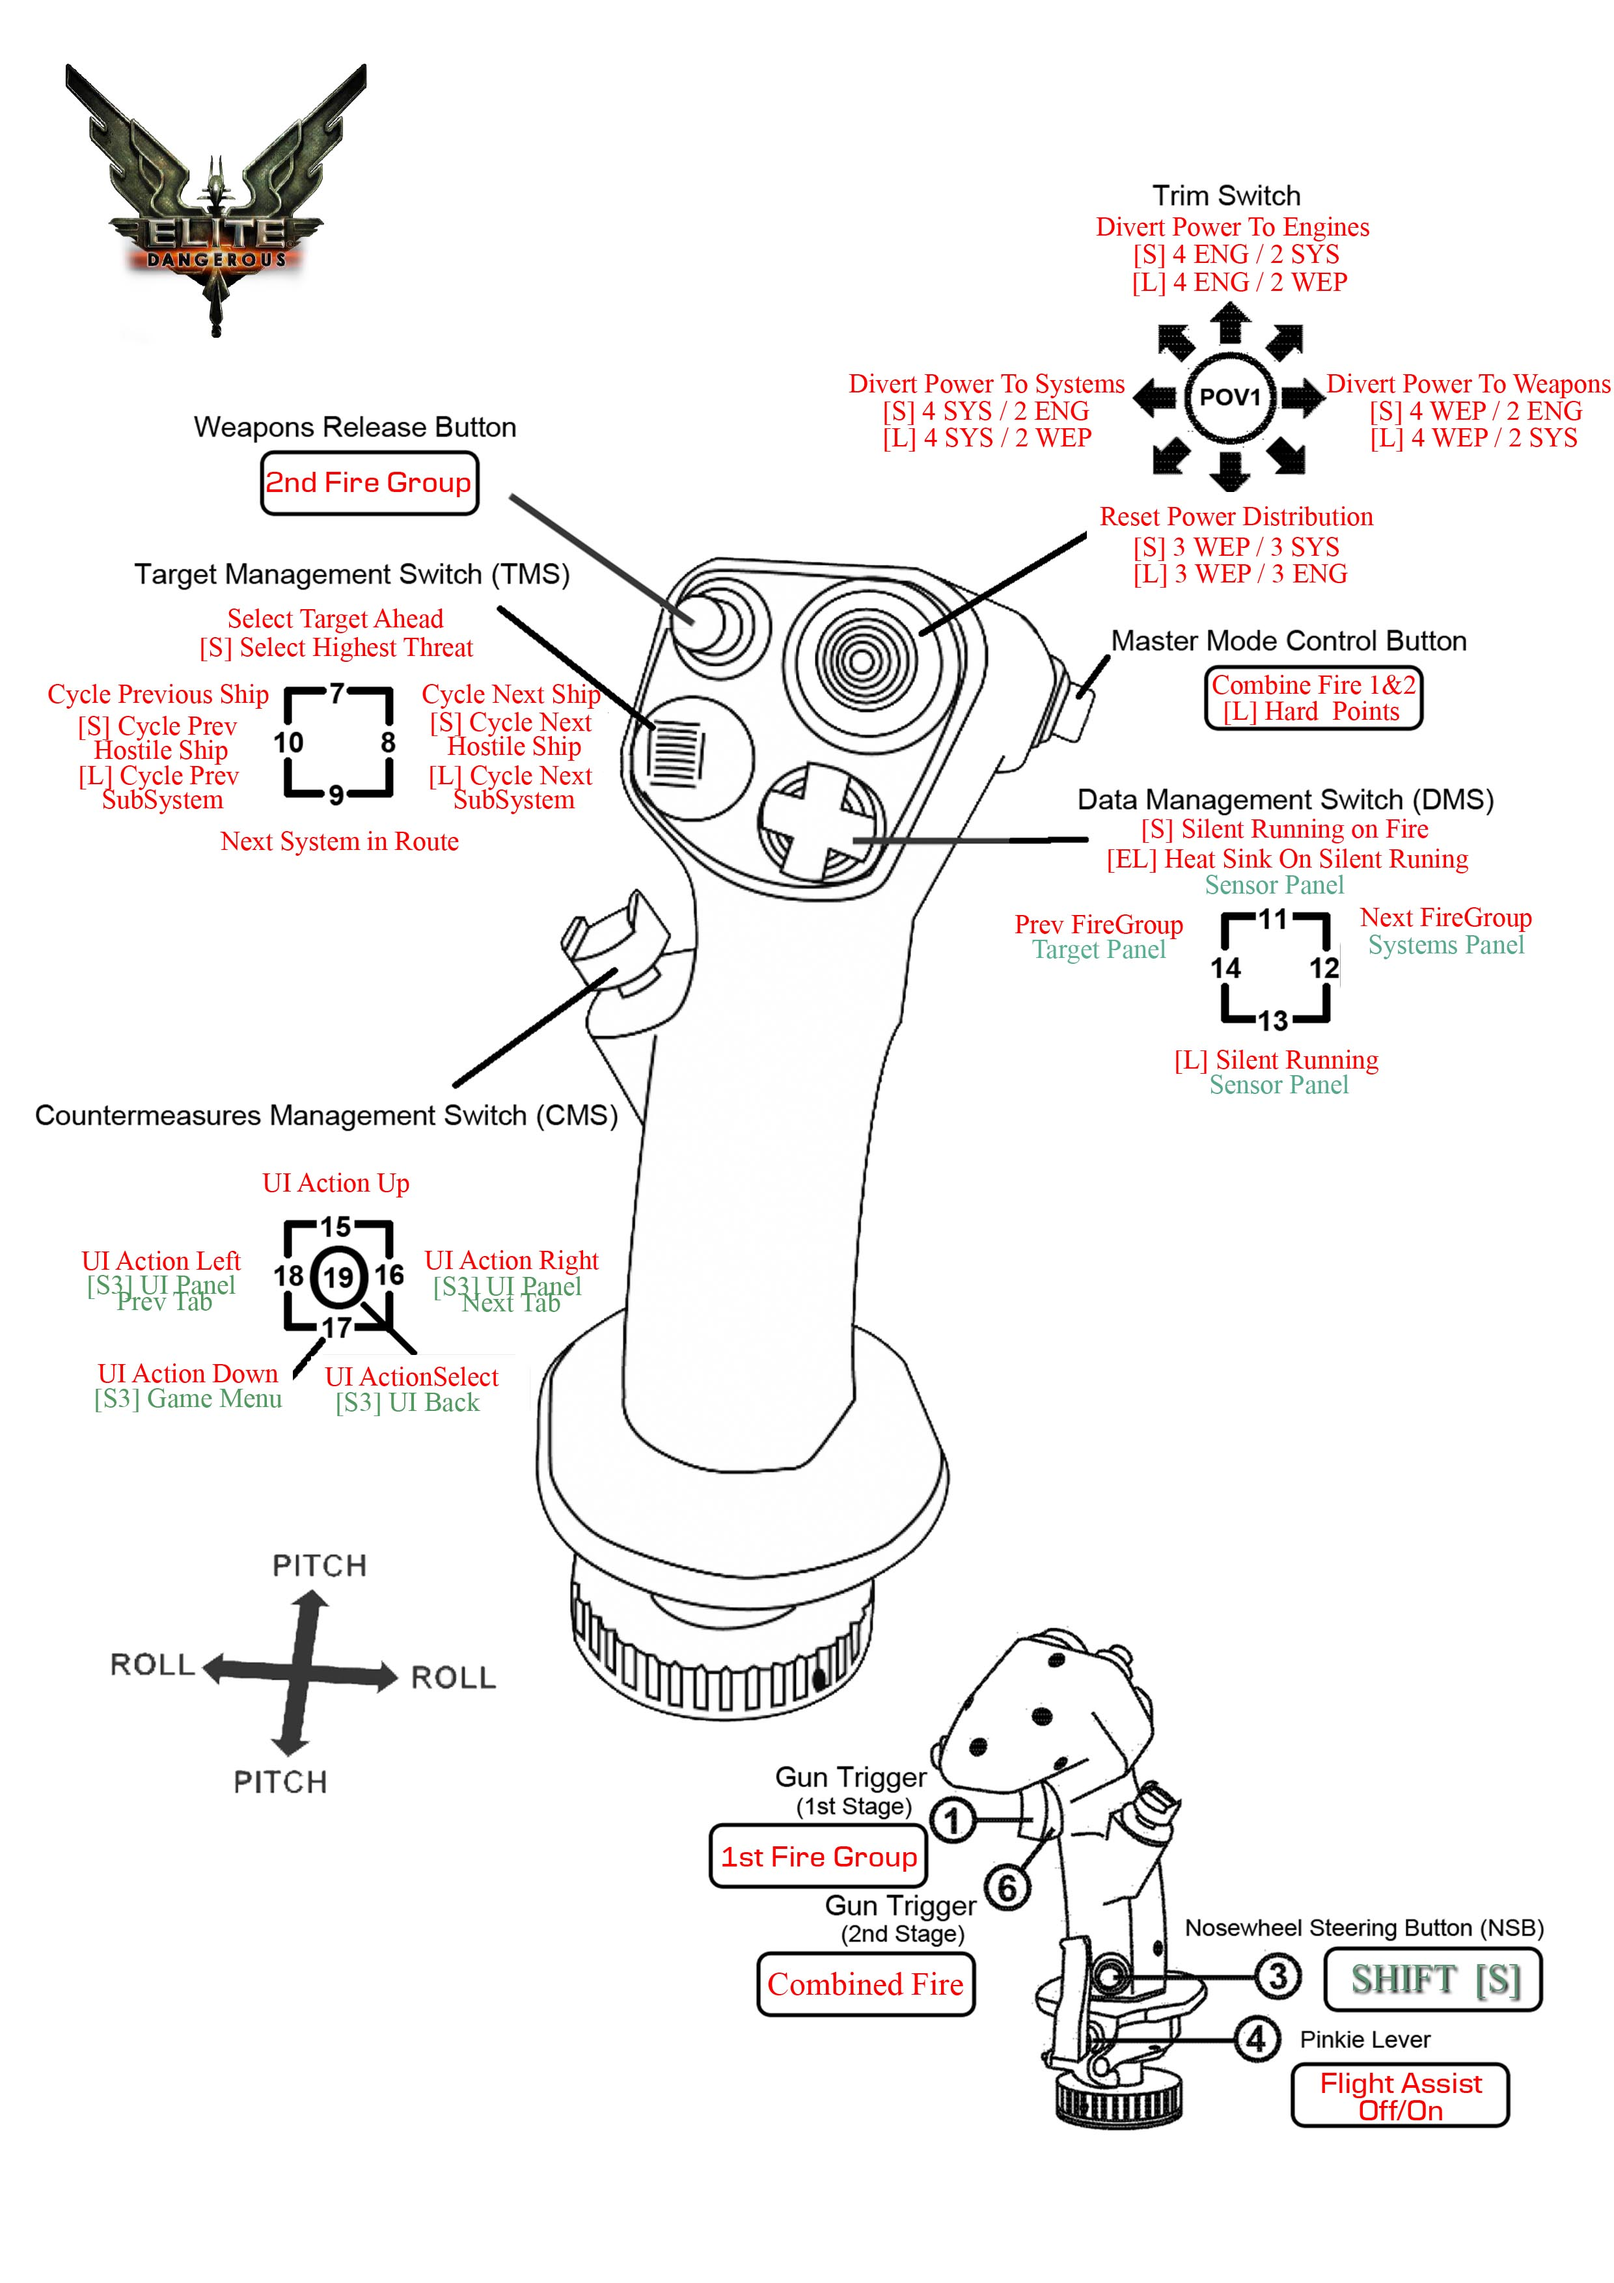
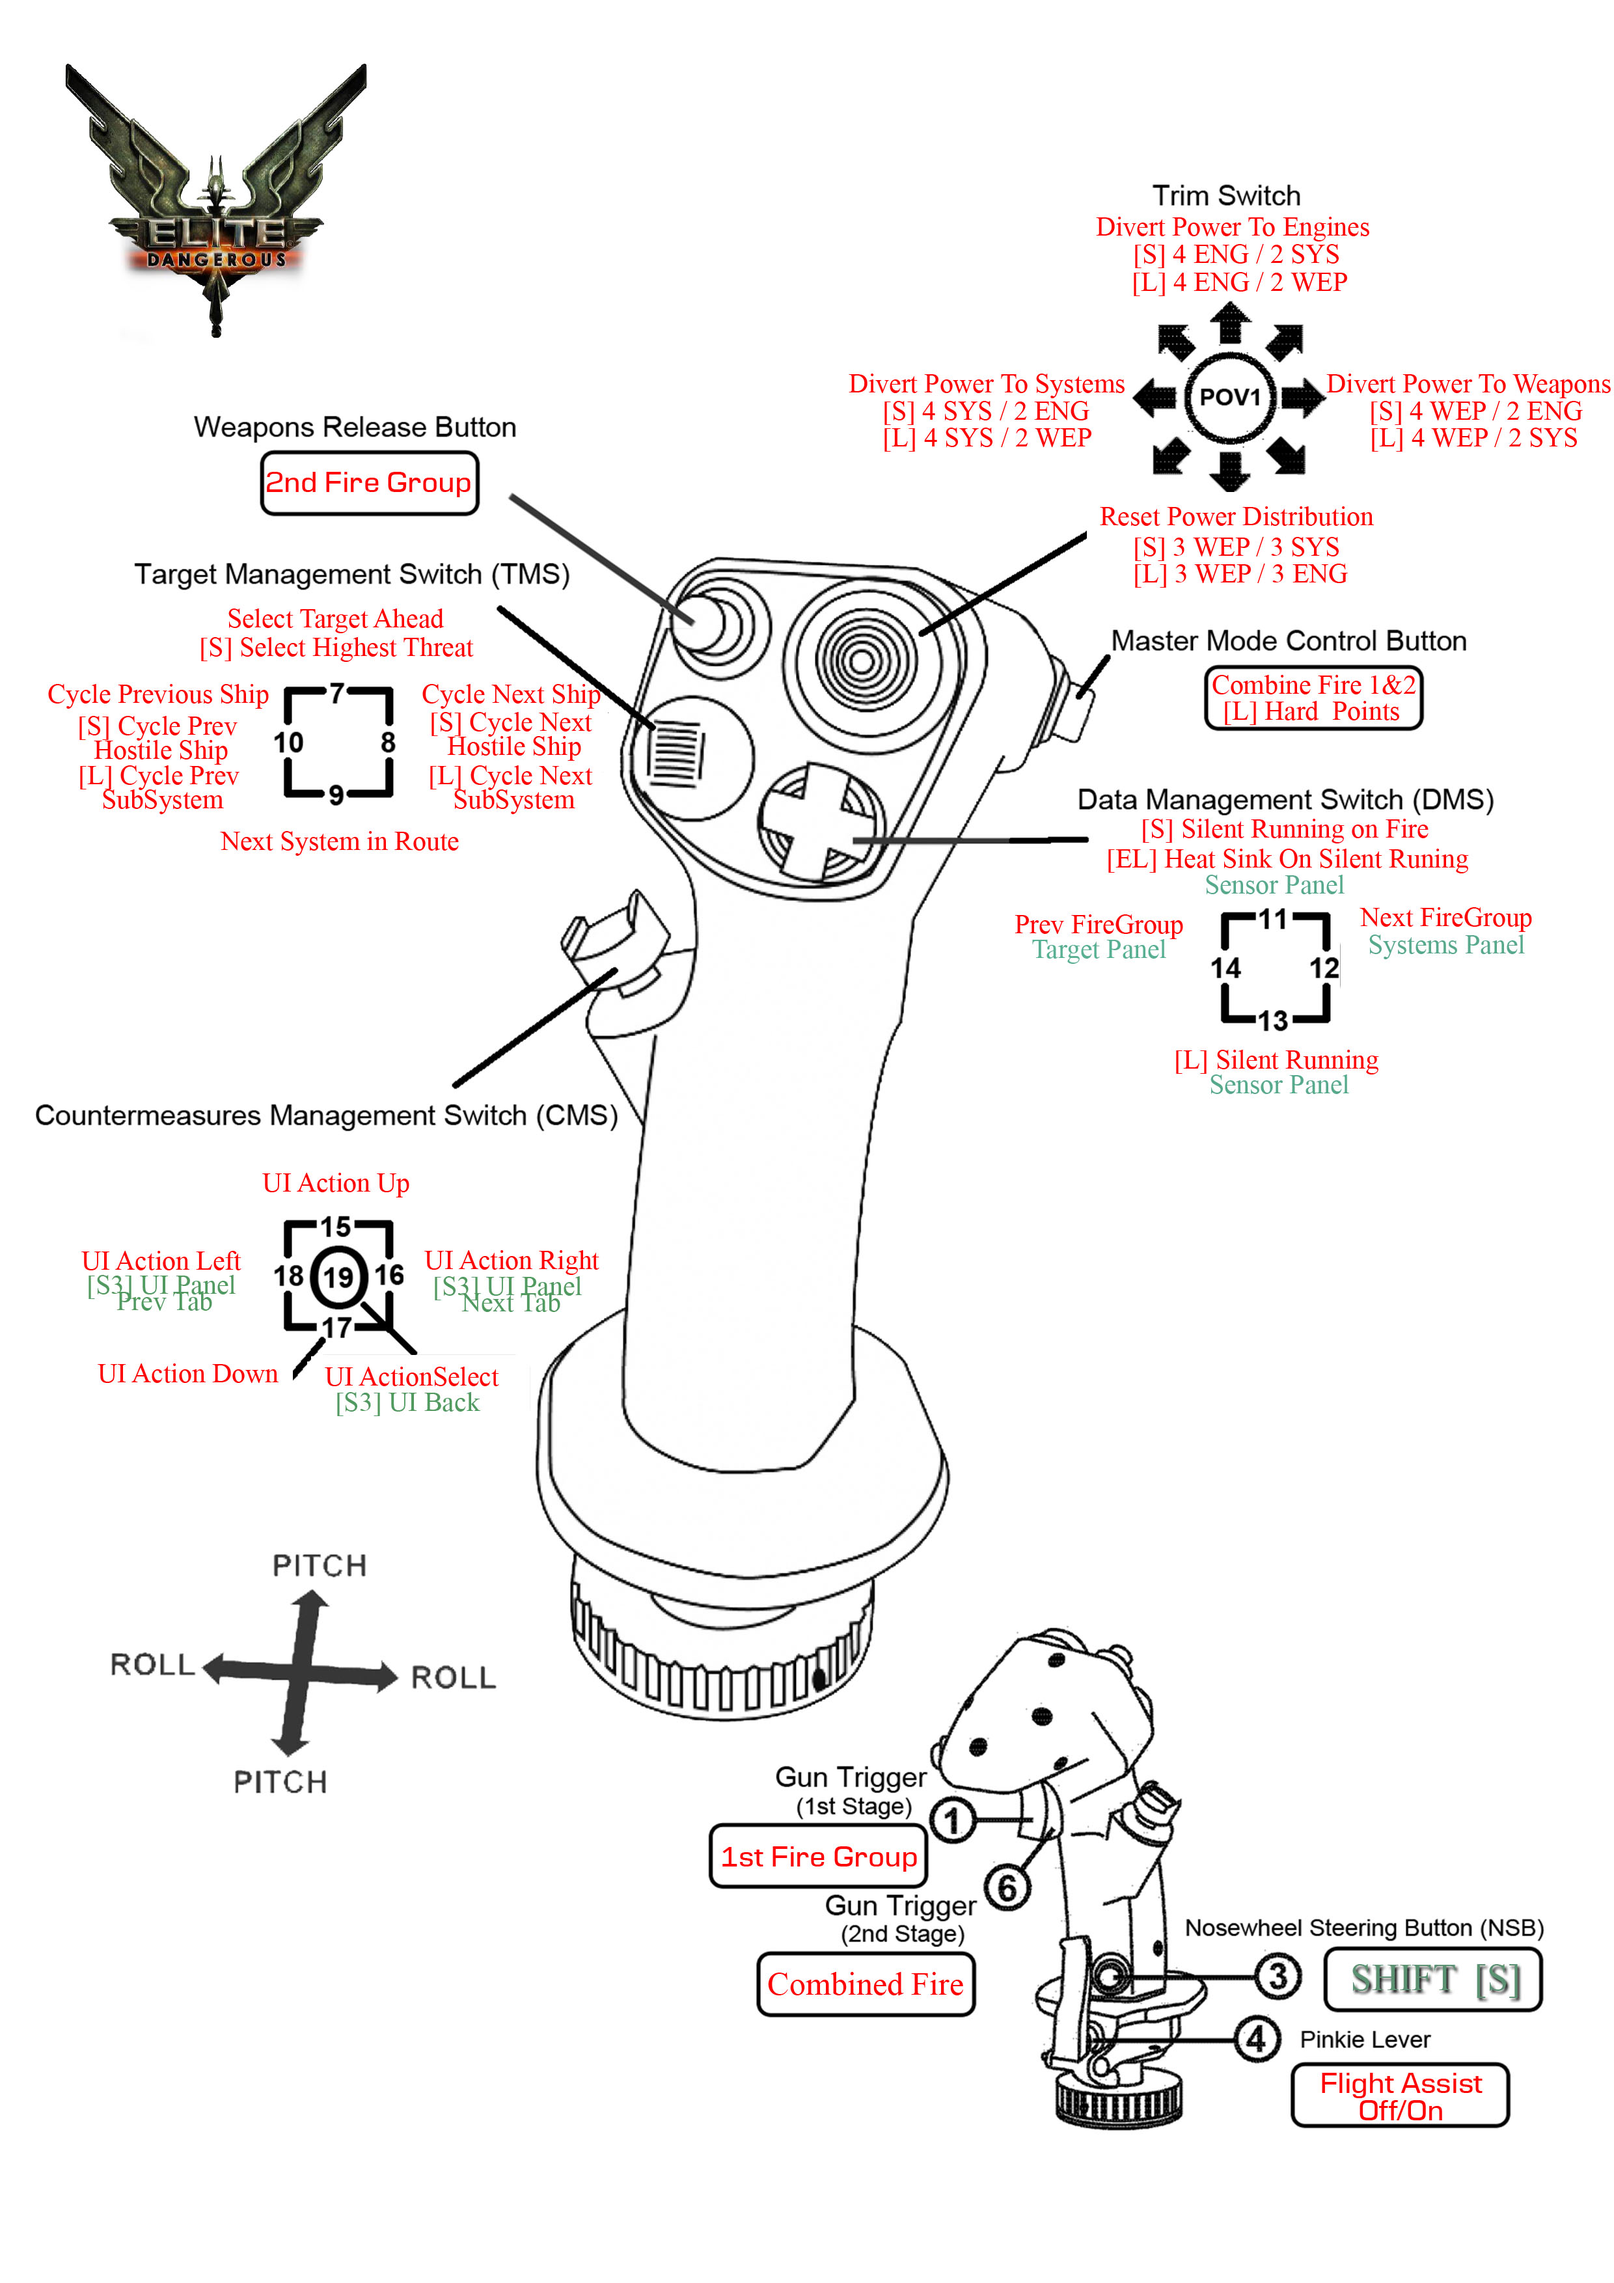
Fix & Typo
Replace Game Menu on Engine Operate Ign/Norm RIGHT
Add some Comment to the code
Add Pulse delay to macro and settings macro
Fix Issue  in Game with Ui Right and Left and Galaxy Map

diff --git a/README.md b/README.md
@@ -1,4 +1,4 @@
-# 2.2.1.5r 10/01/2017 (Pre Release)
+# 2.2.1.5r 11/01/2017 (Pre Release)
 
 - [x] Complete
 - [ ] Work but Incomplete / Need More Test
